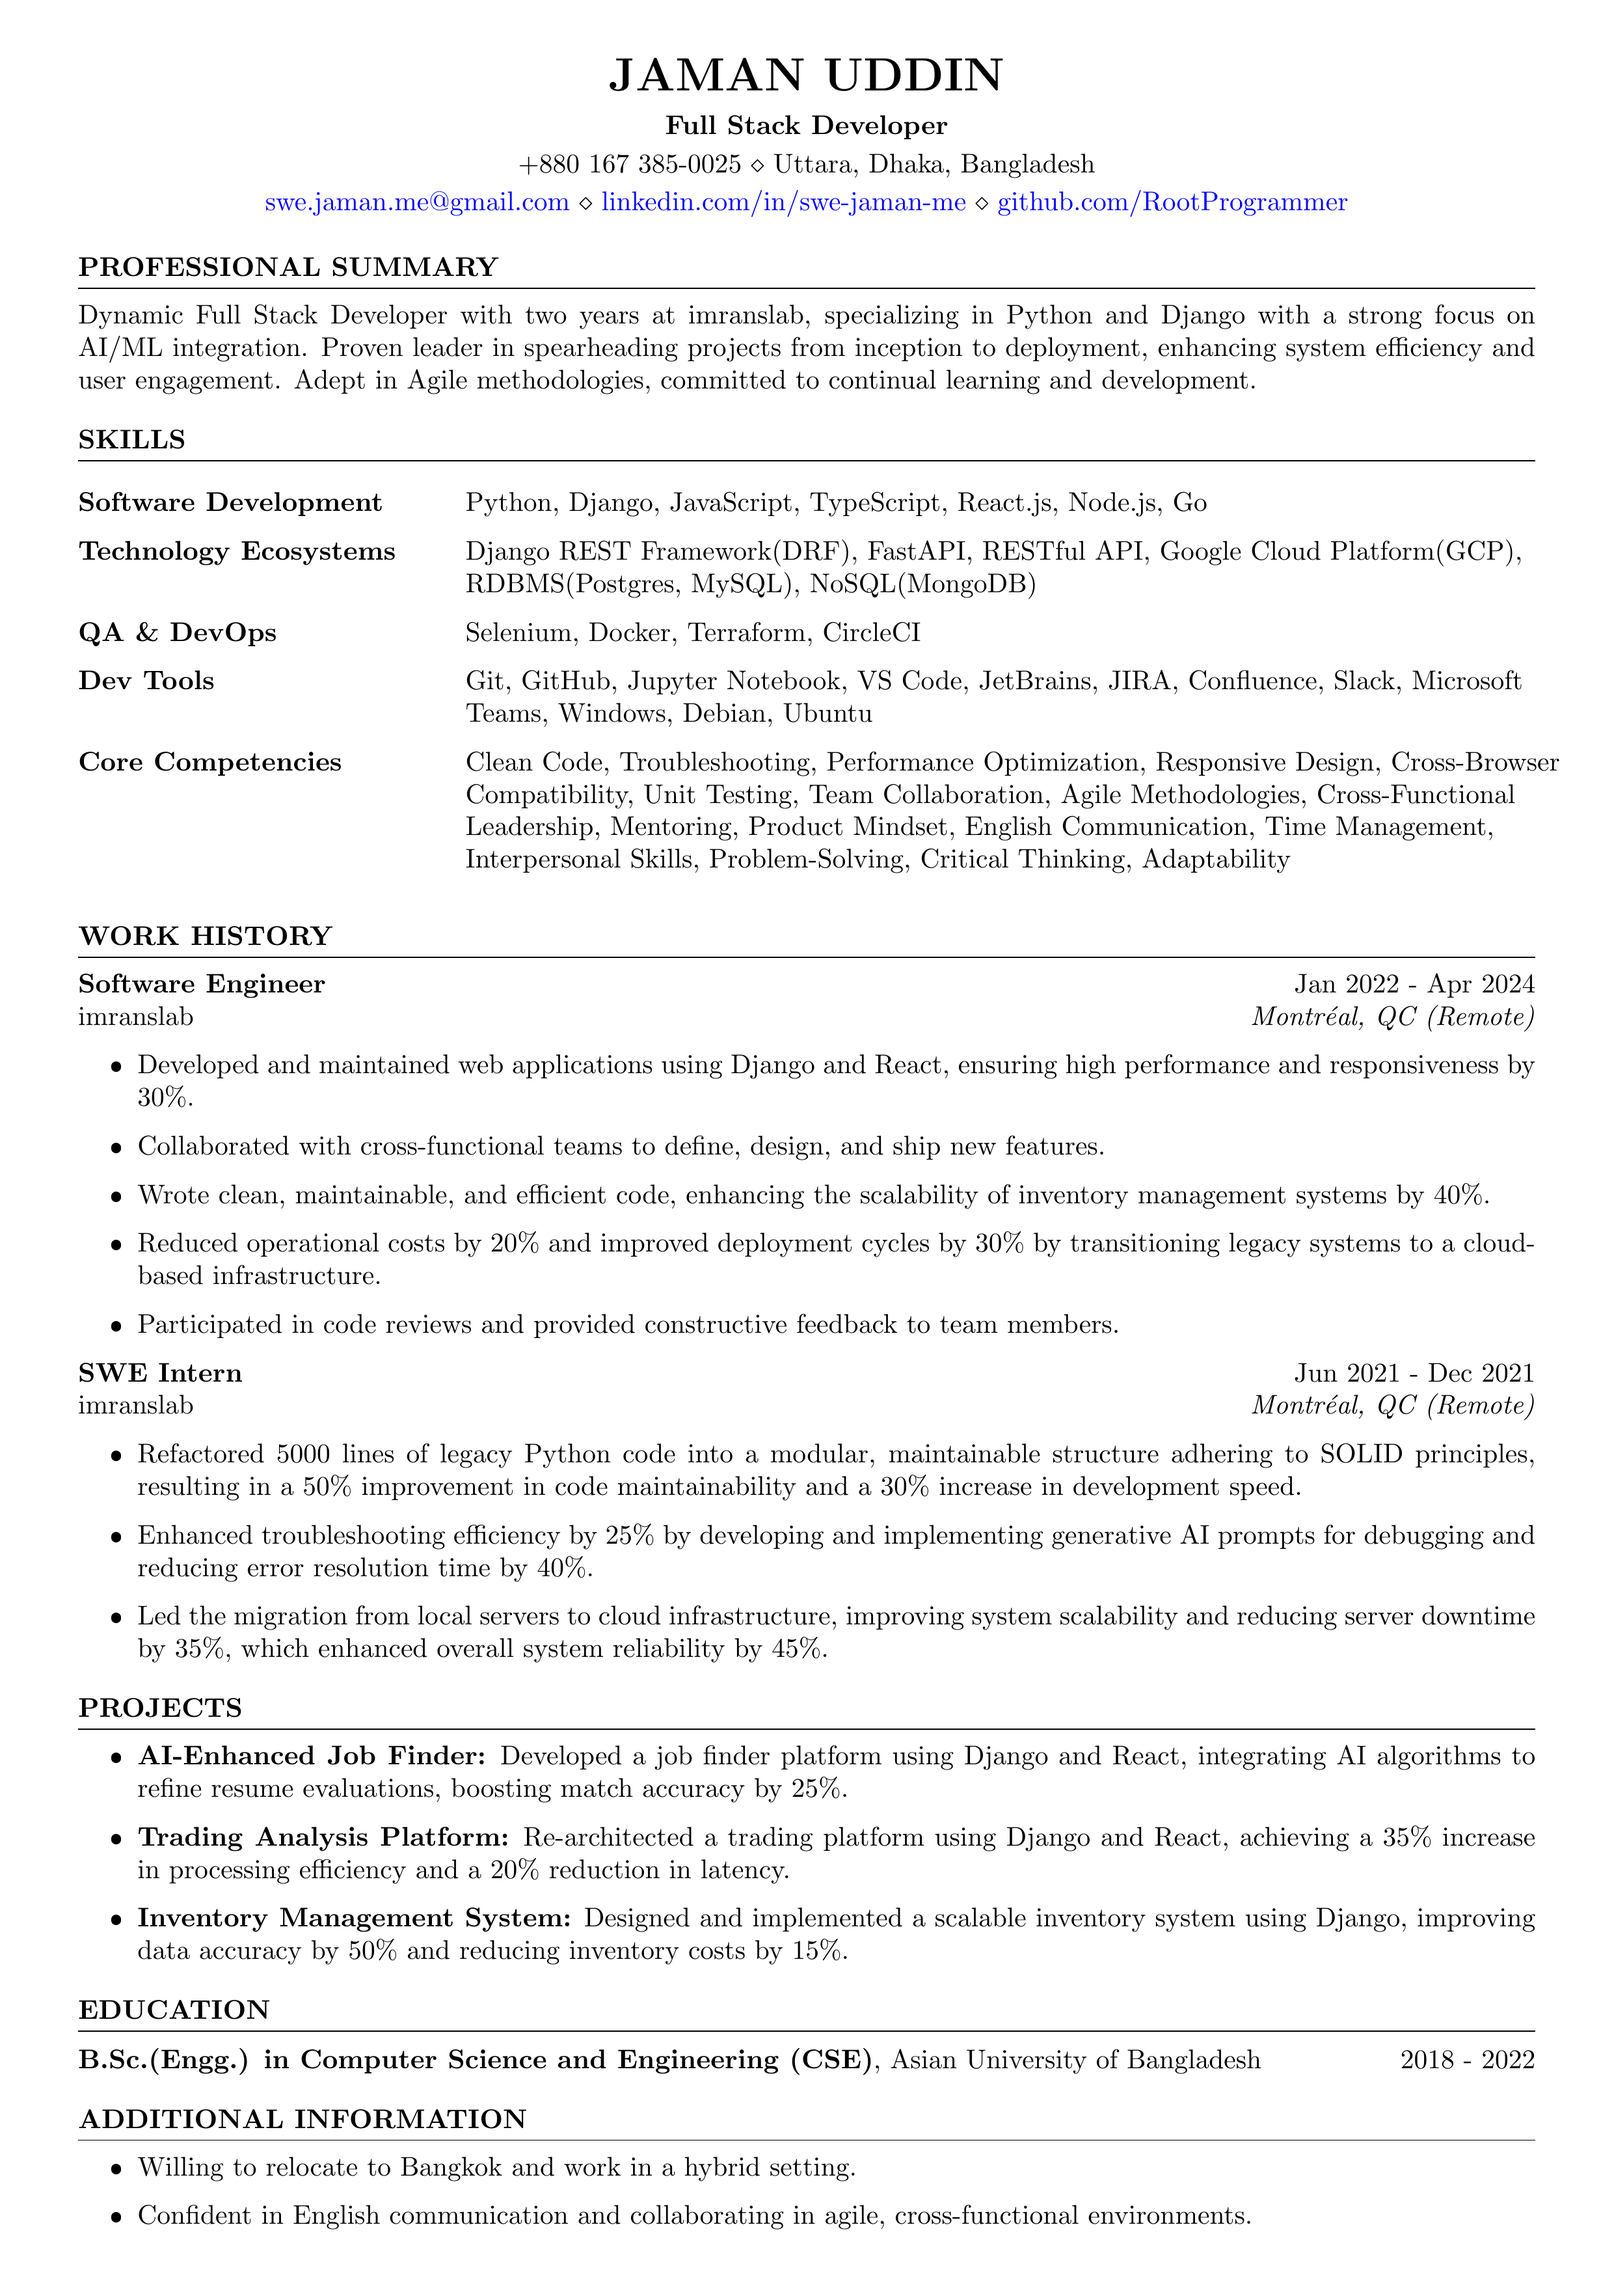
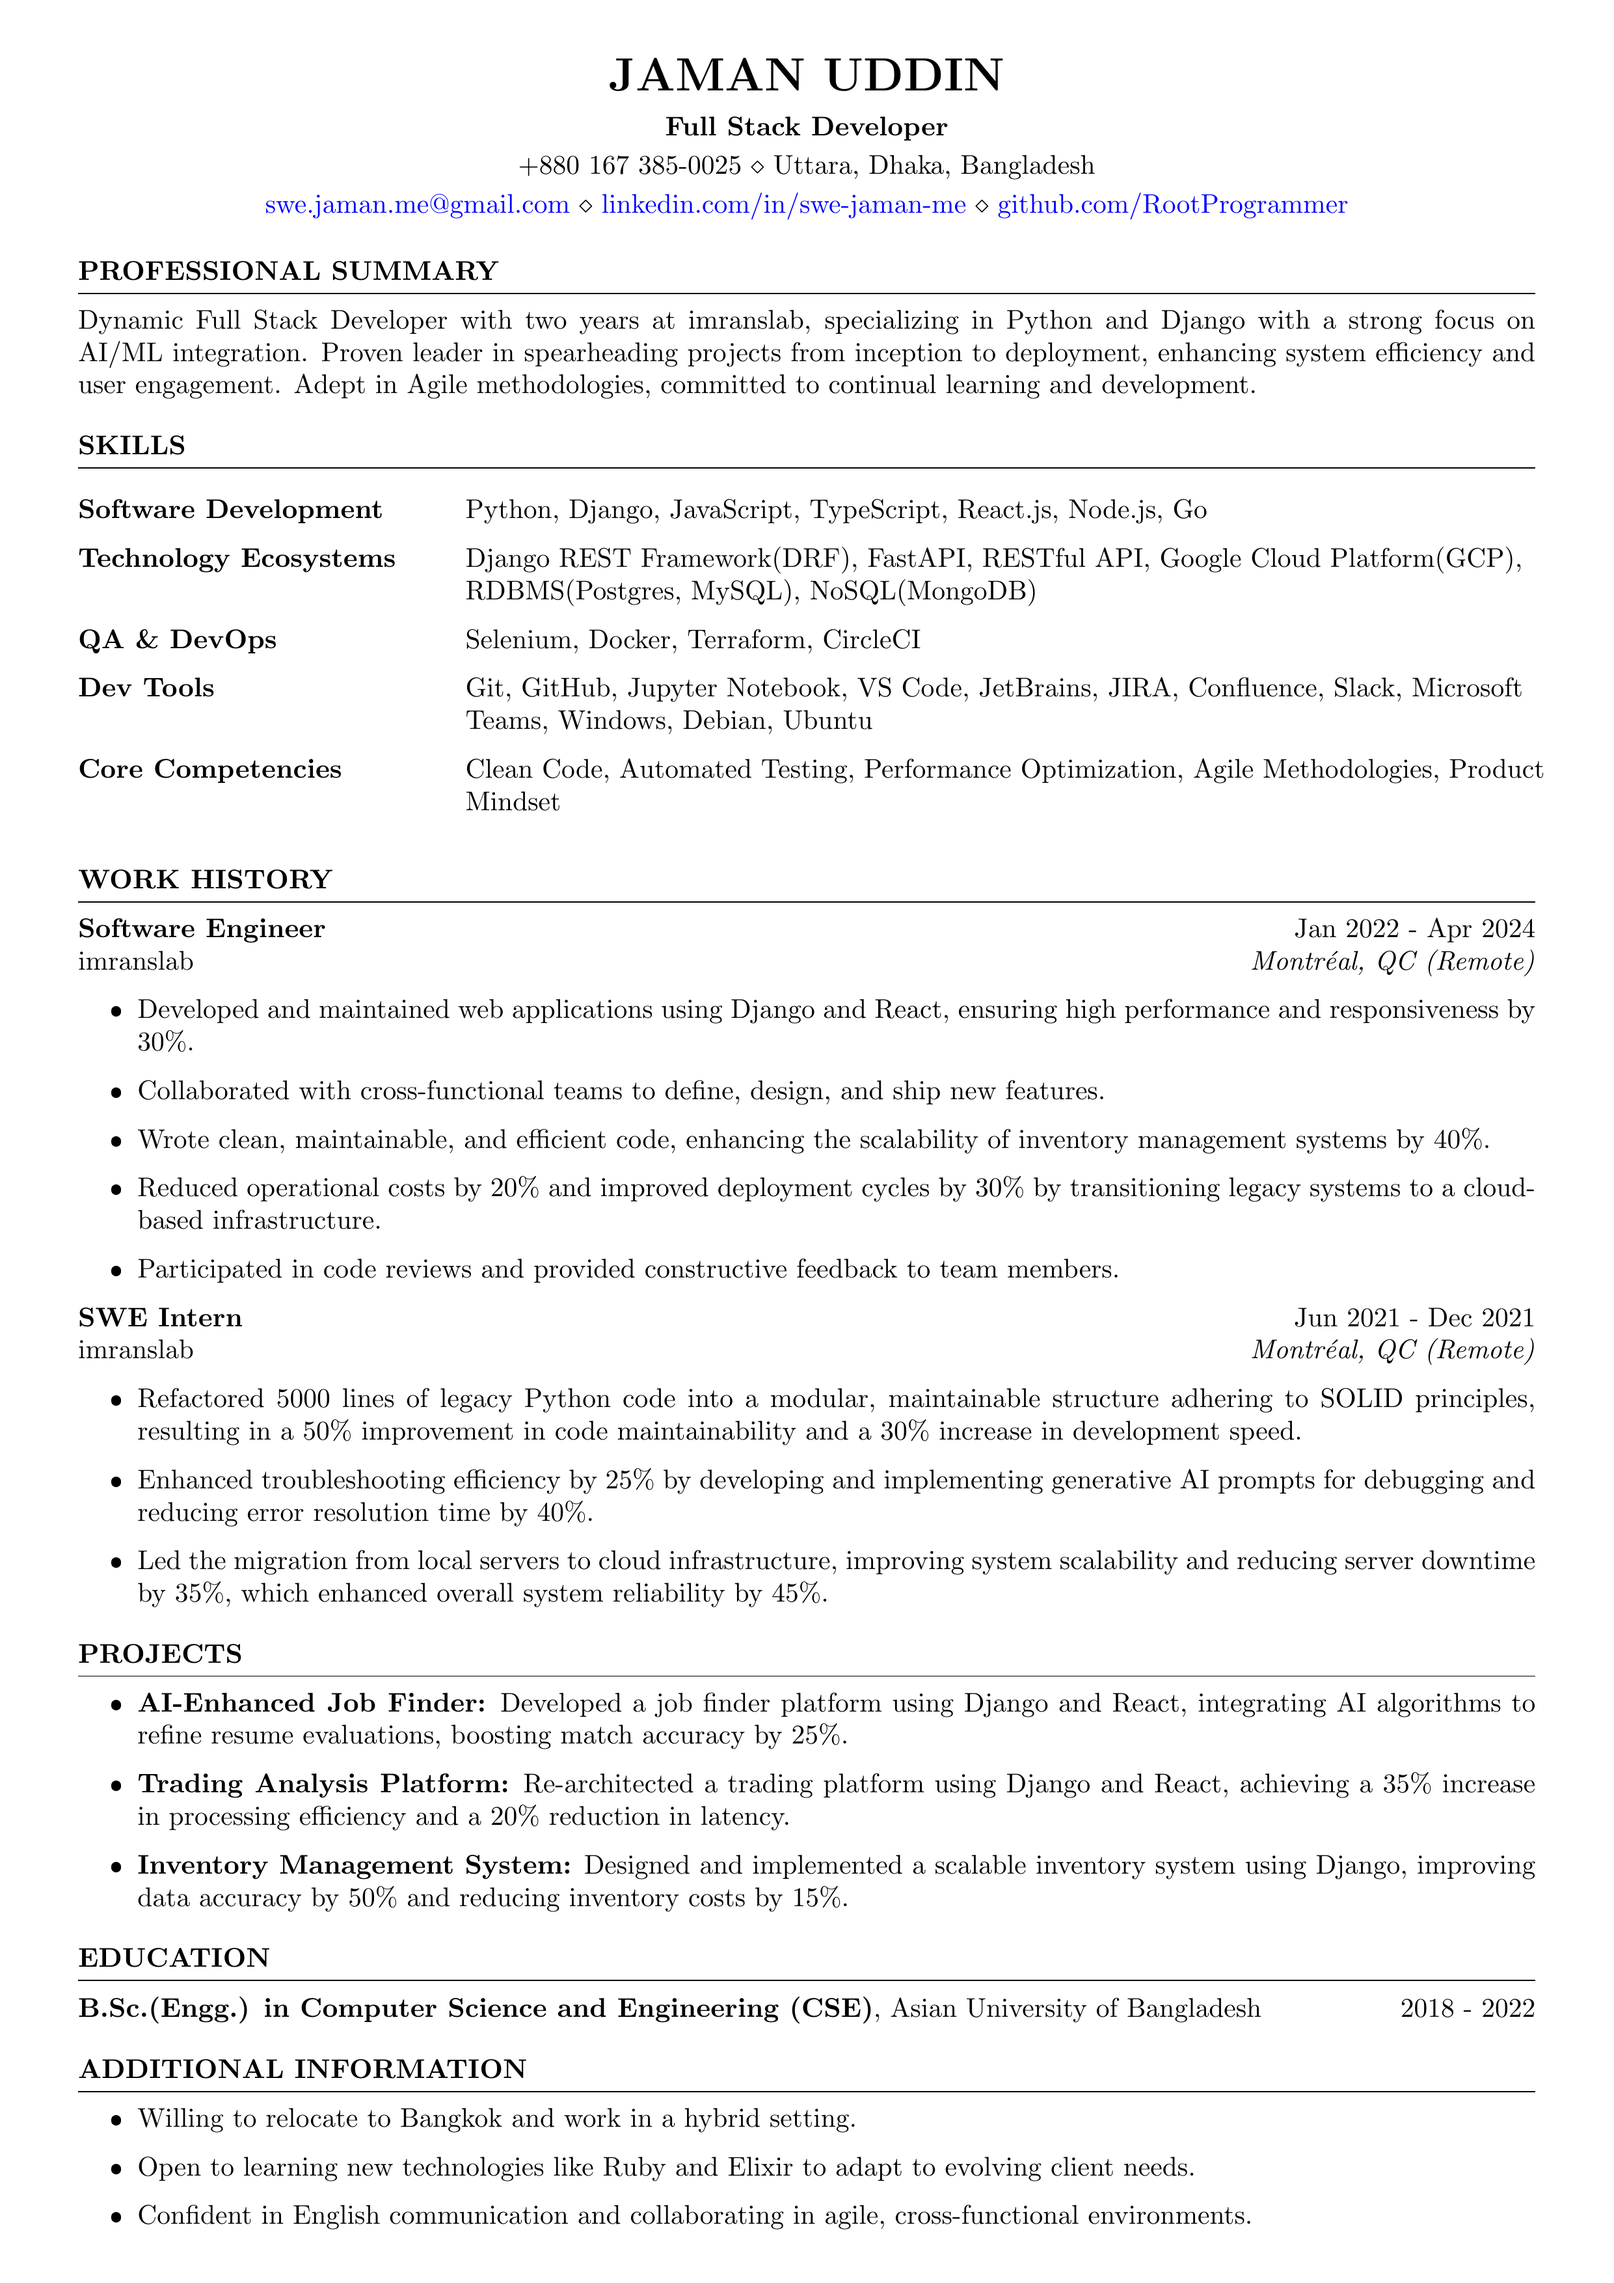
Update: 01:31 PM

diff --git a/resume/job-oriented-resume/full-stack-developer-ruby-js-and-go/jaman-uddin.tex b/resume/job-oriented-resume/full-stack-developer-ruby-js-and-go/jaman-uddin.tex
@@ -34,7 +34,7 @@ QA \& DevOps & Selenium, Docker, Terraform, CircleCI\\
 
 Dev Tools & Git, GitHub, Jupyter Notebook, VS Code, JetBrains, JIRA, Confluence, Slack, Microsoft Teams, Windows, Debian, Ubuntu\\
 
-Core Competencies & Clean Code, Troubleshooting, Performance Optimization, Responsive Design, Cross-Browser Compatibility, Unit Testing, Team Collaboration, Agile Methodologies, Cross-Functional Leadership, Mentoring, Product Mindset, English Communication, Time Management, Interpersonal Skills, Problem-Solving, Critical Thinking, Adaptability\\
+Core Competencies & Clean Code, Automated Testing, Performance Optimization, Agile Methodologies, Product Mindset\\
 \end{tabular}\\
 \end{rSection}
 
@@ -109,6 +109,7 @@ imranslab \hfill \textit{Montréal, QC (Remote)}
 
 \begin{itemize}
     \item Willing to relocate to Bangkok and work in a hybrid setting.
+    \item Open to learning new technologies like Ruby and Elixir to adapt to evolving client needs.
     \item Confident in English communication and collaborating in agile, cross-functional environments.
 \end{itemize}
 

diff --git a/resume/jaman-uddin.tex b/resume/jaman-uddin.tex
@@ -109,6 +109,7 @@ imranslab \hfill \textit{Montréal, QC (Remote)}
 
 % \begin{itemize}
 %     \item Willing to relocate to Bangkok and work in a hybrid setting.
+%     \item Open to learning new technologies like Ruby and Elixir to adapt to evolving client needs.
 %     \item Confident in English communication and collaborating in agile, cross-functional environments.
 % \end{itemize}
 
